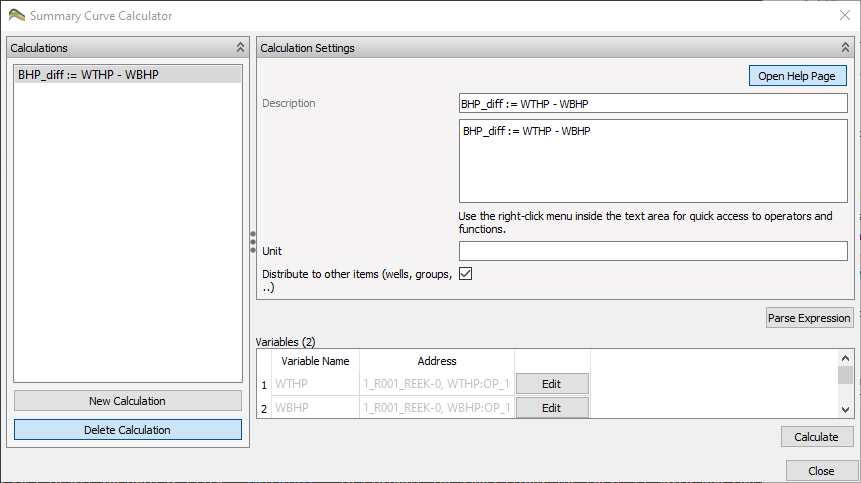
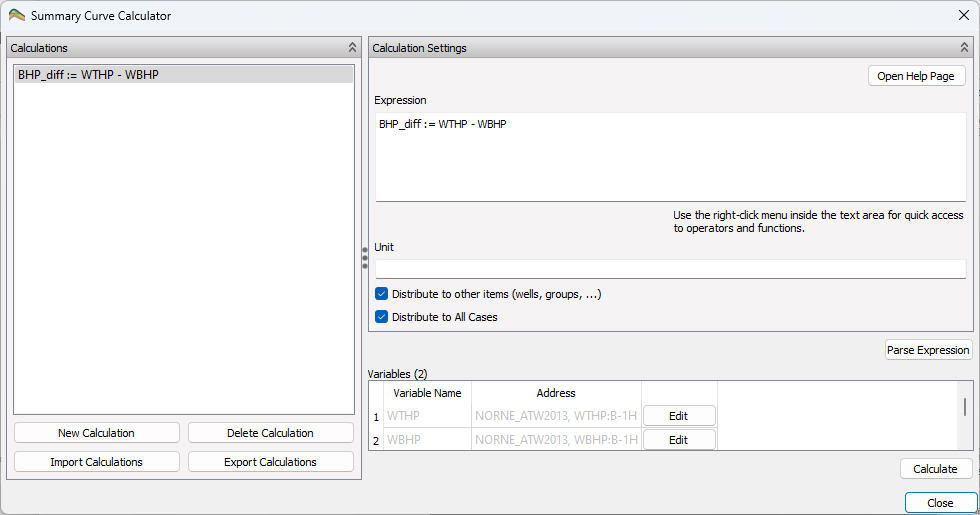
Add export/import of summary and grid cell expressions using external text file

diff --git a/content/Calculated Data/AggregationOfGridCellValues.md b/content/Calculated Data/AggregationOfGridCellValues.md
@@ -4,16 +4,19 @@ published = true
 weight = 20
 +++
 
-## Aggregation of of Grid Cell Values and Statistics
-- import a grid case ensemble
-- define a summation in the grid calculator, mySum := sum(cellProperty)
-- in the Statistics case, select the grid calculation expression
-- create a view on the Statistics case
-- select a set of cells
-- in the Statistics case, select the view as a filter
-- click compute
-- the result of the summation is displayed as text in Messages window. The statistics based on values in each time step is displayed below the individual realization values.
+### Calculate statistics for sum of mobile oil for an ensemble
+
+**Workflow description**
+
+- Import an ensemble of grid models with identical IJK into a **Grid Case Group**.
+- Create a view on one of the source grid models, and create a cell filter.
+- Create an expression for mobile oil `MOBILE_OIL := if(((SOIL-SOWCR) < 0.00), 0.00, PORV*(SOIL-SOWCR))`
+- Optionally select a subset of time steps
+- Create an expression to sum values for all visible cells `SUM_MOBILE_OIL := sum(MOBILE_OIL)` Use the result from the previous calculation as input to the variable, use `MOBILE_OIL` from the **Generated** category.
+- The individual values for each realization and time step is displayed as text in **Messages**. The statistics for each time step is displayed at the bottom.
 
 
+![image](https://github.com/OPM/ResInsight/assets/1793152/bf53a448-94ce-4fbb-850e-b912c060a6d4)
 
-See draft https://github.com/OPM/ResInsight/discussions/10902
+See draft workflow with screenshots here:
+https://github.com/OPM/ResInsight/discussions/10913

diff --git a/content/Calculated Data/GridPropertyCalculator.md b/content/Calculated Data/GridPropertyCalculator.md
@@ -12,6 +12,8 @@ aliases = [
 ResInsight offers a built-in property calculator for grid parameters. 
 The **Grid Property Calculator** enables arithmetic expressions to be parsed and calculated for visualization purposes. The expression can be applied to one or multiple grid models, and the expression text can be stored to a file for later use.
 
+Expressions can be saved to a text file using the **Export Calculations** button. The default location for calculations can be set in **Preference->Import/Export**.
+
 More details on mathematical operations are described in [Calculator Expressions]({{< ref "CalculatorExpressions.md" >}})
 
 ## Invoking the Grid Property Calculator

diff --git a/content/Calculated Data/CurveCalculator.md b/content/Calculated Data/CurveCalculator.md
@@ -13,6 +13,8 @@ The summary curve calculator is a tool to do calculations on a set of curves. Th
 
 The calculator can be run by pressing the calculator icon {{< image-in-text src="images/Calculator.svg" >}} in the menu bar, or by right-clicking on either a summary case or the summary plot collection.
 
+Expressions can be saved to a text file using the **Export Calculations** button. The default location for calculations can be set in **Preference->Import/Export**.
+
 More details on mathematical operations are described in [Calculator Expressions]({{< ref "CalculatorExpressions.md" >}})
 
 ## Calculation Settings

diff --git a/content/Calculated Data/CaseGroupsAndStatistics.md b/content/Calculated Data/CaseGroupsAndStatistics.md
@@ -2,6 +2,9 @@
 title = "Grid Case Groups and Statistics"
 published = true
 weight = 120
+aliases = [
+    "/3d-main-window/casegroupsandstatistics/"
+]
 +++
 
 ![]({{< relref "" >}}images/3d-main-window/GridCaseGroupTree.png)
